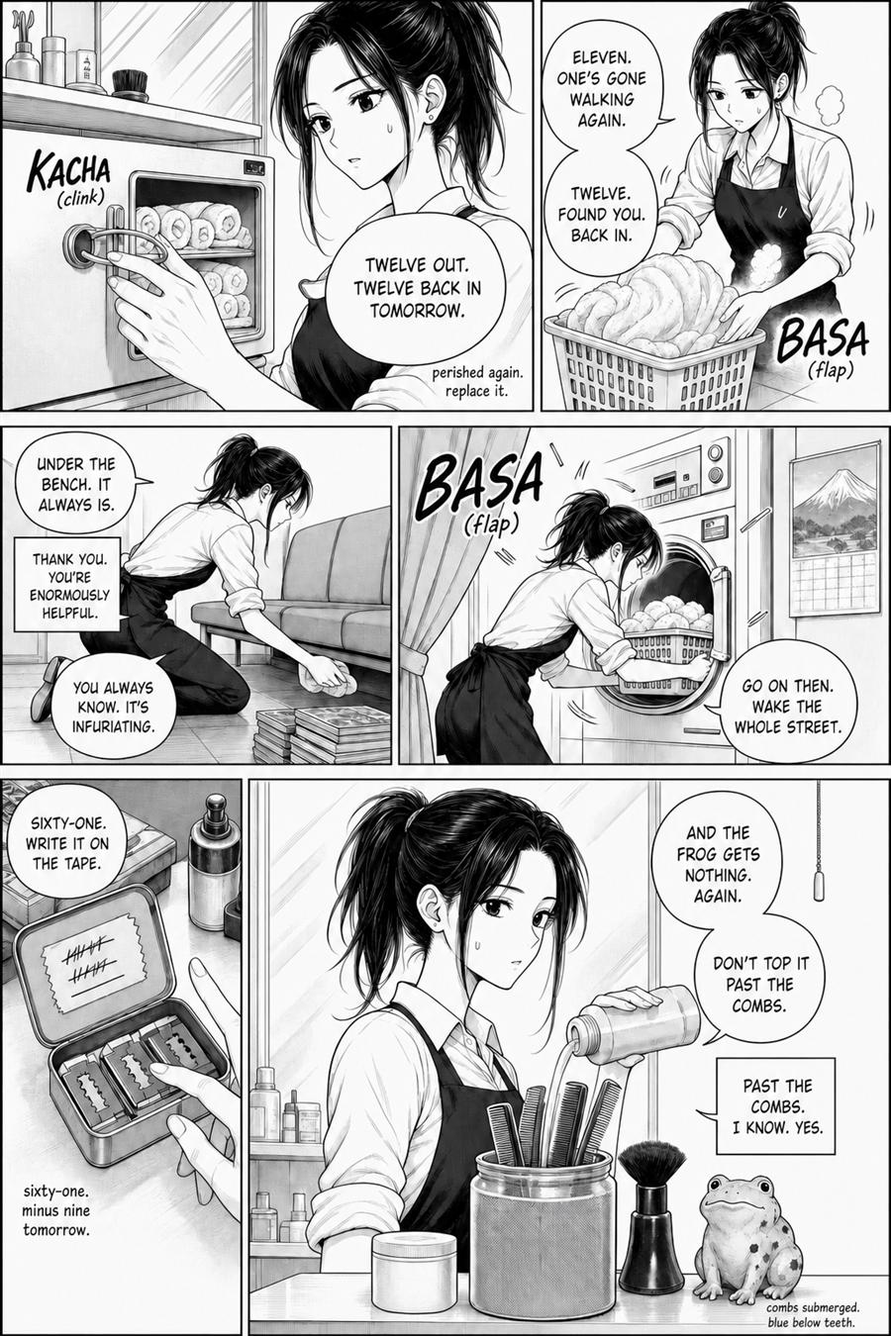
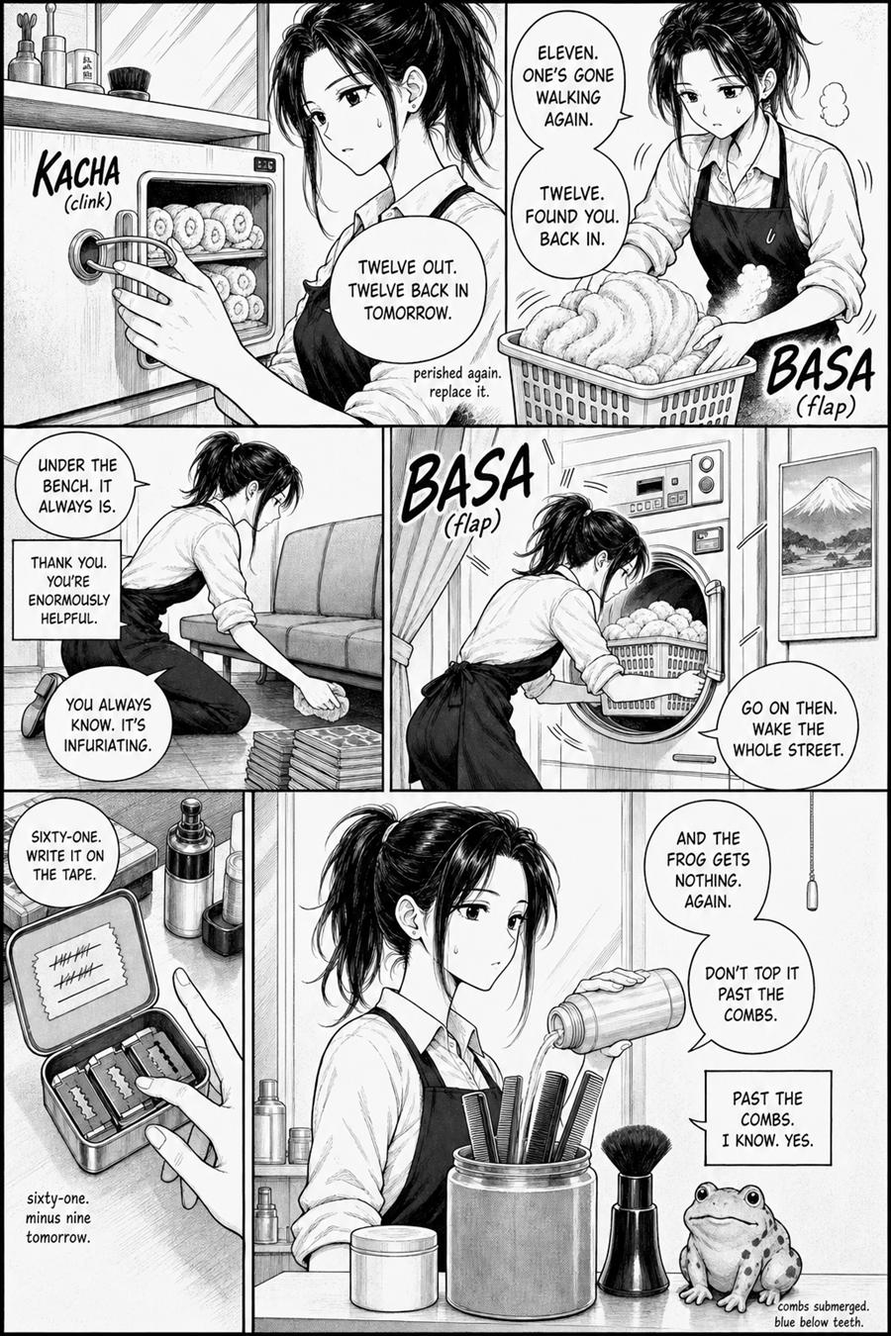
ch01: IN PENCIL (27 pages)

diff --git a/engine/art-spec.md b/engine/art-spec.md
@@ -1,131 +1,114 @@
 # ART SPEC
 
-Everything between the BEGIN/END markers is pasted VERBATIM into every single image call — pages, calibration pages, and (with the noted cover overrides) covers. Never abbreviate it, never summarize it, never "the usual spec".
+Everything between the BEGIN/END markers is pasted verbatim into every page-generation call.
+This is an editorial drawing brief, not a request for a polished illustration.
 
 <!-- BEGIN ART SPEC -->
-ART SPEC — this is a MANGA PAGE, not an illustration. Follow every section.
+ART SPEC — DRAW ONE FINISHED BLACK-AND-WHITE PRINTED MANGA PAGE.
 
-STYLE ANCHOR — the finished page must look like a SCAN OF A PRINTED MODERN HIGH-SCHOOL ROMANCE MANGA VOLUME: thin delicate ink lines, SIMPLE YOUTHFUL FACES, crisp flat screentone, lively hand lettering, and dense conversational page rhythm. The register is soft and warm, but the PAGE is busy with human reactions, short dialogue chains, mutters, SFX, cropped faces, and changing camera distance. It is clean manga cartooning, NOT a gritty realistic drama and NOT a sparse character sheet.
+PRIORITY ORDER:
+1. Story timing and readable panel flow.
+2. Every scripted word, in the correct reading order.
+3. Character identity through silhouette, clothing, and props.
+4. Expressive hand-drawn ink and screentone.
+5. Anatomical polish LAST.
 
-**THE TWO BIGGEST RISKS ARE OVER-RENDERING AND STERILE UNDER-DRAWING.** Draw faces and bodies with very few lines, but construct a complete manga page around them. A page that looks gritty, painstaking or realistic is wrong; a page made of six large figures floating in six empty white boxes is equally wrong. Specifically FORBIDDEN: crosshatching used as modelled shading; texture rendering of wood grain, every floorboard, brick, fabric weave, or concrete; stippling; feathered shading strokes; heavy line weights; detailed folds; rendered muscle or bone structure; dense architectural linework. Allowed and expected: selective room fragments, cropped props, flat dot-tone fields, speed/focus lines, black emotion fields, and graphic SFX. Simplify reality; do not erase the world.
+The page must feel drawn by a working manga artist against a deadline, not rendered by an image model trying to make every panel beautiful. A useful awkward panel is better than a polished empty one.
 
-It must NOT look like a digital painting, an anime keyframe, a 3D render, or glossy AI art. Flat print, never rendered light. Every area of the page is one of exactly three things: pure black ink, pure white paper, or a flat dot-screentone shape. If any region reads as smooth continuous grayscale, the page is wrong.
+PRINT OBJECT:
+- Portrait 1024x1536. Pure black ink, pure white paper, and visible halftone dots only.
+- No color, smooth grayscale, airbrush, gradients, digital-paint lighting, depth blur, glow, or glossy anime finish.
+- Blacks may be blunt and heavy. Screentone edges may be visibly cut. White-out gaps, broken contours, and slight ink irregularity are welcome when controlled.
+- Do not add fake aging, paper stains, scan shadows, watermarks, signatures, page numbers, or margin notes.
 
-FIGURE PROPORTIONS — THE MOST IMPORTANT RULE ON THIS PAGE. The house look is TALL, SLENDER AND LIGHT:
-- Draw teenage characters at roughly 7.5 to 8 HEADS TALL. The head is SMALL relative to the body.
-- Long slim neck. NARROW, gently sloping shoulders — never wide, never square, never blocky.
-- Long, slim arms and legs. The legs from hip to floor are slightly MORE than half of total height. Slim waist and hips, flat slim torso that tapers gently.
-- Delicate hands with long fingers. Fine wrists and ankles. Long clean jawline into a small chin.
-- This holds in EVERY panel, every pose, seated, in loose clothing, in a coat, from any angle.
-- NEVER draw a compact, square, stocky, chunky, squat or "sturdy" figure. NEVER draw a torso as a block. NEVER shorten the limbs relative to the torso. If any figure reads as stubby, short-limbed, or heavy-shouldered, THE PAGE IS WRONG and must be redrawn.
-- Height differences between characters are modest — a head at most. Nobody is a giant and nobody is a child (except characters the script explicitly says are children).
+PAGE EDITING — PANELS ARE STORY CUTS, NOT MINI POSTERS:
+- Follow the PAGE SCRIPT's exact panel count and order. A splash is one panel; every other page is genuinely divided.
+- Build an asymmetrical manga page: unequal rows, narrow reaction cuts, partial-height panels, small insets, occasional borderless inserts, and varied gutters.
+- Never use six equal rectangles, repeated full-width strips, or a tidy storyboard worksheet.
+- Only ONE panel on a normal page may look like a polished hero illustration. The others should be functional cuts: an awkward crop, the back of a head, half a face, hands, a mouth, a shoulder, a tiny figure in space, a prop, or a deliberately crude reaction.
+- Change camera distance sharply. Use extreme close-ups beside long shots. Do not repeat eye-level waist-up two-shots.
+- Crop aggressively. In at least half the panels, do not show a complete head-and-torso composition. Cut through hair, chin, elbow, shoulder, cape, or body at the panel edge.
+- Do not center every subject. Faces may press against an edge; empty space may sit on the emotionally meaningful side.
+- A character or balloon may break a border. Borders may stop behind a figure or SFX.
 
-PAGE CONSTRUCTION — DO THIS FIRST:
-- Divide the sheet into separate rectangular panels with fine solid black borders and clean white gutters between them. The exact panel count and contents come from the PAGE SCRIPT below — draw every panel it lists, in order.
-- The page is a grid of separate camera shots reading LEFT-TO-RIGHT, TOP-TO-BOTTOM. It is never one continuous illustration. (Exception: a page explicitly marked SPLASH is a single full-bleed panel — and it still carries all its speech bubbles.)
-- Vary panel sizes aggressively: one dominant panel, two or three small reaction cuts, and the rest medium. Adjacent panels must change camera angle, distance, or subject — every panel is a cut.
-- Use an ASYMMETRICAL MANGA COMPOSITION: staggered rows, narrow reaction panels, small inset panels, partial-height borders, figures and balloons crossing gutters. Do not arrange six equal boxes or six full-width horizontal strips. A neat worksheet grid is an AI failure.
-- Default page anatomy: 7 panels. 8 is common when dialogue accelerates; 6 is a quiet page; 5 is the rare floor; 9 is allowed for reaction insets. Follow the PAGE SCRIPT's exact count.
-- Gutters vary from hairline-tight in quick exchanges to wide only around an emotional pause. Uniform generous gutters make the page look like a storyboard, not manga.
+THE ANTI-AI INK LAW:
+- Contours are drawn with 2-3 perceptible line weights. Pressure changes inside a stroke. Some lines begin bluntly, taper, break, or overlap another line by a millimetre.
+- Do not use perfectly smooth vector contours, identical line weight around every object, or mathematically clean ellipses.
+- Hair is a designed black/white mass first, then a limited number of purposeful strands. Do not render every strand with equal care.
+- Clothing is allowed to bunch, kink, and simplify. Use a few decisive folds; do not simulate fabric or drape it with 3D accuracy.
+- Chrome chairs, mirrors, scissors, tills, and appliances are simplified symbols with selective blacks. No ray-traced reflections, perfect manufactured symmetry, CAD construction, or product-render highlights.
+- Background perspective may be accurate in the establishing panel, then disappear. Do not prove the room from every angle.
 
-DENSITY — the script's dialogue is the point of the page:
-- Render EVERY speech bubble, thought bubble, aside, caption, and SFX written in the PAGE SCRIPT. Never drop, merge, or shorten a bubble. A page rendered with zero bubbles is a failed page.
-- A normal page carries roughly **11-15 speech/thought balloons plus 3-5 unbubbled mutters and 2-5 drawn SFX**. Together they make **16-22 readable text beats**. The PAGE SCRIPT gives the exact count; reproduce all of it.
-- Bubbles are distributed across panels; busy panels carry 2-4 bubbles in a staggered chain. Short interruptions and replies get their own balloons instead of being merged. Bubbles overlap panel borders and sometimes each other — that is correct manga texture.
-- Before drawing, make a balloon map in reading order. Reserve roughly one quarter of the live page area for lettering. Pictures are composed around the balloons; balloons are never pasted into leftover corners.
-- This is a quiet, talky, character-first manga: the finished page reads as conversation first, pictures second.
+CHARACTER CONTINUITY — IDENTITY, NOT MODEL-SHEET RIGIDITY:
+- The CHARACTER LOCKS bind silhouette, hair value, outfit, state switch, signature props, and important story tells.
+- Listed head-count proportions describe neutral full-body shots only. Do NOT measure or enforce them in every panel.
+- Normal figures remain youthful and generally slim, but foreshortening, crouching, slouching, cropped limbs, a larger reaction head, and deliberately compressed comedy anatomy are correct manga.
+- Faces may go slightly off-model while acting. Feature spacing, jaw length, and eye size can shift between a deadpan panel, an embarrassed panel, and a chibi panel. That shift is human cartooning, not continuity failure.
+- Preserve recognizability through hair silhouette, black/gray value, clothes, and props—not through tracing the same ideal face repeatedly.
+- Do not mirror a face into perfect bilateral symmetry. Perspective makes the far eye smaller and less detailed. Hands may be simplified unless the script makes the hand the subject.
 
-FACES — people are the subject, and they are drawn SIMPLY:
-- A human face appears in nearly every panel. At most ONE panel per page may be without a person (an insert of hands, scissors, a comb, a door). Never draw a page of objects or scenery.
-- Faces are large in frame: conversation shots crop at chest or closer. Expressions do the acting, and they are SUBTLE — a lowered lash line, a small mouth, a glance away. Big loud expressions are rare and land hard.
-- **FACE CONSTRUCTION — YOUTHFUL AND MINIMAL. These characters are SEVENTEEN and must look it.** Soft rounded jaw curving into a small chin. **The NOSE is a single short stroke or a small dot — NEVER draw nostrils, a nose bridge, or a shaded nose.** The MOUTH is one small simple line. **NO lip definition, NO cheekbone lines, NO jaw shading, NO neck tendons, NO philtrum, NO under-eye bags, NO laugh lines** (age on the two elderly characters is a few fine creases ONLY, per their locks).
-- **A face is roughly: two eyes, two brows, one nose stroke, one mouth line, and the hair. That is all.** Anything beyond that is over-rendering. Adult faces get the same treatment, only longer.
+FACES — ALLOW UNATTRACTIVE MOMENTS:
+- A normal face is economical: upper lashes, iris, one nose mark, one mouth line, jaw. Do not model nostrils, lips, cheekbones, or skin volume.
+- The cast must NOT wear the same calm, symmetrical, pretty expression in every panel.
+- Use plain transitional faces, eyes looking the wrong way, half-closed lids, crooked mouths, compressed cheeks, sweat, ugly surprise, and flattened chibi reactions where the beat calls for them.
+- A reaction can drop most facial detail: dot eyes, white circle eyes, black bar eyes, one giant mouth, missing nose, or a head reduced to silhouette.
+- Reserve the most carefully drawn eyes and cleanest face for the page's emotional focal panel. If every face is equally finished, the page has failed.
+- Elderly characters must remain unmistakably old, but age comes from a few decisive lid, mouth, hand, neck, and hairline marks—not realistic skin rendering.
 
-WHITE SPACE — CONTROLLED, NOT EMPTY:
-- Roughly **35-50%** of the page may read as white paper. White is an active contrast field around faces and lettering, not an excuse to omit setting, reactions, or tone.
-- Give **2-4 panels per normal page** a purposeful background treatment: one clear environment panel; one or two cropped room fragments or props; and/or one graphic emotion field made of speed lines, focus lines, flat black, or visible dot screentone.
-- Suggest the shop with selective recurring anchors — mirror edge, chair chrome, towel cabinet, counter, stair rail, window, floor drift — rather than redrawing the entire room. Do not render every floorboard, tile, brick, mullion, or surface grain.
-- No more than TWO consecutive panels may float on untouched white. Alternate white face shots with context, prop inserts, tone fields, or graphic reaction panels.
-- NEVER achieve breathing room with fewer panels, fewer bubbles, or empty panels. Breathing room comes from simple linework and controlled contrast inside a fully constructed page.
+BLACK, WHITE, SCREENTONE — VARY PAGE TO PAGE:
+- Use visible dot screentone, flat black, white, speed lines, focus lines, and dry graphic marks as compositional values.
+- Do not target the same white percentage on every page. One page may be bright; the next may carry a dark tone field. The chapter needs contrast.
+- Tone may sit behind a face as emotion rather than physical lighting. Black fields and radiating lines are legitimate manga space.
+- Establish a location once with enough concrete detail to orient the reader. Later panels use only cropped anchors: mirror edge, chair arm, stair rail, towel cabinet, window, floor hair, counter.
+- Do not repeat a complete barbershop interior. Do not render every tile, floor seam, shelf item, ceiling panel, or reflection.
+- Also avoid the opposite failure: characters floating in a featureless white showroom for an entire page. Use room fragments, tone, blacks, or graphic effects where the cut needs grounding.
+- Chapter 1 page 23 is the house QA comparator for density, emotional register, uneven finish, and balloon variety. Do not attach it—or any prior story page—as a visual reference for a different page: scene-content leakage is a redraw. Compare editorially after generation instead.
 
-LINE:
-- THIN, clean, even-weight black ink line — light, delicate and confident. Slightly thicker on figure outlines only. No sketchiness, no crosshatch rendering, no painterly shading, no heavy brush weight, no tapered "drybrush" strokes.
-- **CLOTHING gets the MINIMUM fold lines that read — two or three per garment, at the elbow, the waist and the hem. Never render drapery. A shirt is an outline and three lines.**
-- FLATNESS LAW: faces, skin, hair, clothes and objects are FLAT — outline plus flat fill plus at most one screentone shadow shape. No gradient shading on skin, no soft light on hair, no rendered fabric folds, no ambient occlusion, no depth-of-field blur, no photographic lighting of any kind. Simple beats detailed everywhere.
+DIALOGUE DENSITY — LETTERING IS PART OF THE DRAWING:
+- Render EVERY scripted speech balloon, thought balloon, aside, caption, and SFX. Never merge, paraphrase, reorder, or omit text.
+- Obey the COUNT LOCK exactly. Plan the balloon map before drawing the figures.
+- Compose heads, hands, and bodies around the balloon path. Do not paste text into leftover corners after drawing.
+- Busy panels may carry 2-4 short balloons in a staggered chain. Balloons may overlap a shoulder, background, border, or each other.
+- Keep all text large enough to read at normal phone width. Use short stacked lines.
 
-EYES — the one feature that carries the face, so they are LARGE and CLEAN:
-- Large, gently rounded eyes, noticeably bigger than realistic proportion. A fine dark upper lash line thickening slightly at the outer corner, two or three delicate lashes, a crisp white highlight, a soft lower lid. Irises are a clean flat tone or a few fine vertical striations — never airbrushed, never heavily detailed.
-- Eyebrows are thin simple arcs. Eyelids get one line at most.
-- Blush is 2-4 short diagonal hatch strokes on the cheek. A comic sweat drop beside the temple is allowed. Emotion marks are used SPARINGLY — this series is quiet.
+HAND-DRAWN BALLOONS AND LETTERING:
+- Balloon outlines must look inked by hand: subtly uneven curves, non-identical corners, slight wobble, and natural asymmetry. Never use perfect vector circles, capsules, or software-default rounded rectangles.
+- Normal speech: irregular oval. Formal/deadpan speech: hand-drawn squared balloon. Shout: violent spiky burst with heavy larger letters. Thought: irregular scalloped cloud. Mutter: bare small text or a broken whisper outline. Interruption: torn/open edge. Weak voice: thin wavering outline.
+- Tails are individually drawn and vary in length, angle, width, and curve. Do not reuse the same triangular tail.
+- Text should resemble confident hand lettering, not a clean installed comic font: small baseline shifts, varying width, controlled changes of weight, and occasional squeezed letters. It must remain legible.
+- Bold only the stressed words. Shouts change both balloon shape and letter scale.
+- A page of identical ovals, identical rectangles, or identical text size is a redraw.
 
-HAIR:
-- Hair reads as a clear SILHOUETTE with FINE STRAND LINES inside it: flat black fill, flat screentone gray, or left white — with a simple clean white shine band. Individual strands are drawn with fine tapered lines at the edges so hair looks soft, not solid. Each character's hair silhouette must match their CHARACTER LOCK exactly, every panel, every page.
+SFX AND REACTION GRAPHICS:
+- SFX are hand-lettered romaji integrated into the art, with the small English translation in parentheses. Never print the labels `SFX:`, `CAPTION:`, `PANEL`, speaker names, quotation marks, or any script markup.
+- Give sounds different physical behavior: scissors may sit close to the blade; a bell can hang down the panel; a crash can cross a gutter; a breath can nearly disappear.
+- Use manga punctuation when earned: `?!`, `!!`, sweat drop, anger vein, blush hatching, motion ticks, speed lines, focus lines, black shock field, tiny chibi insert.
+- Do not force the same reaction device or giant SFX onto every page. Repetition by checklist feels generated.
 
-TONE — PRINTED MANGA RHYTHM, NEVER SMOOTH GRAY:
-- Halftone dot screentone is used for hair values, uniform fabric, **2-4 flat background/effect shapes**, and the occasional cropped room shadow. Aim for visible print dots across roughly 15-30% of a normal page.
-- A background may be a single flat tone field, a black field, or a sparse speed/focus-line field when it carries emotion. Never model a whole room with gradients or textured gray.
-- Blacks are FLAT solid black. No gray airbrush, no soft digital gradients, no 3D-render shading. Mid-tones are visible DOTS, never smooth gray.
+SIGNAGE AND EXACT TEXT:
+- Any sign, poster, shopfront, notice, packet, book, phone screen, clock, or printed page may carry ONLY wording explicitly supplied by the PAGE SCRIPT.
+- If wording is not supplied, turn it away, crop it, reduce it to illegible marks, or cover it. Never invent names or logos.
+- The cram-school poster is printed matter in a coarser dot screen, cropped/occluded, never a clean extra character portrait, and never lettered.
 
-CHIBI:
-- Panels tagged [CHIBI] in the script draw the characters as tiny simplified versions: oversized round head, dot or line eyes, no nose, simplified body, simplified hair silhouette that still matches their lock. Chibi panels land mid-conversation as small comedy beats and keep their bubbles. (Chibi is the ONE exemption from the proportions law.)
+FINAL HUMAN-PAGE AUDIT — REDRAW IF ANY ANSWER IS YES:
+- Do most panels look like polished standalone illustrations?
+- Are faces uniformly symmetrical, attractive, calm, and equally finished?
+- Are bodies posed like mannequins facing the camera?
+- Are balloons perfect software shapes with one repeated font treatment?
+- Is the room rendered like a consistent 3D set from every angle?
+- Are chrome, hair, eyes, or cloth glossy and computationally smooth?
+- Is every line the same weight and every contour unbroken?
+- Are all gutters, panels, camera distances, or figure scales regular?
+- Does the page look cleaner and more consistent than a weekly printed manga page? If so, roughen the editorial drawing, not by adding noise, but by making bolder choices and leaving unimportant things unfinished.
 
-LETTERING — **BUBBLE SHAPE AND TEXT SIZE CARRY THE EMOTION. THIS IS AS IMPORTANT AS THE DRAWING.**
-
-**THE ENFORCEMENT RULE: a page where every bubble is the same shape, the same size, and the same weight is a FAILED PAGE.** Real manga lettering is loud in places and almost invisible in others, and the reader hears volume from the shape alone before reading a word. Vary it on every single page.
-
-Every normal page must show **at least three distinct lettering treatments** from the vocabulary below. Every conversation page must include at least one staggered **two- or three-balloon chain** whose shapes and sizes change with the speaker's rhythm. A quiet page can use oval + rectangle + bare mutter; it does not need a false shout.
-
-The vocabulary — pick the form from the FEELING, not from habit:
-- **Normal speech** → clean oval or rounded bubble, thin outline, medium text.
-- **SHOUTING / urgency / alarm** → **SPIKY BURST bubble** with jagged points, and the text inside is **MUCH BIGGER AND BOLDER** — two or three times the size of calm dialogue, often stacked in short thick lines. A shout must be legible as a shout with the page held at arm's length.
-- **Flat, formal, deadpan, or stating a fact** → a **RECTANGULAR / squared-off bubble** with corners. (This is Tōma's public register bubble — use it.)
-- **Muttering, half-heard, embarrassed, trailing off** → **NO OUTLINE AT ALL**: small text floating bare beside the head; or a **small broken/dashed outline**. Tiny text. This is the series' most-used quiet form.
-- **Thoughts** → cloud-scalloped edge, softer text.
-- **Interrupted or cut off** → a bubble with one edge left open or ragged.
-- **Whisper / weak voice** → thin wobbly outline, small light text.
-- **TAILS vary**: a long whipping tail thrown across the panel for a shout from off-panel; a tiny nub for a quiet line; no tail at all when the speaker is obvious.
-- **Bold individual words** inside a bubble for stress. Not every word — one or two.
-- Bubbles **overlap panel borders and each other**; a bubble may sit half outside its panel. That is correct manga texture, not a mistake.
-- Balloons may crop a shoulder, cover background detail, or bridge two adjacent reaction shots. They help CREATE the layout and reading path.
-- Text is horizontal UPPERCASE English, centred, broken into short stacked lines of 1-4 words; hyphenate rather than shrink.
-- Captions: small rectangular boxes, upper corner of a panel, uppercase.
-
-EXPRESSION, REACTION AND CARTOONING — the page must have COMIC LIFE in it:
-- Use **1-3 purposeful manga grammar devices per normal page**: a drawn **"?!"** or **"!?"** graphic; sweat drop; popped anger vein; blush hatching; breath puff; hand-motion ticks; speed/focus lines; simplified reaction face. Do not apply the same device to every page.
-- **REACTION FACES**: when a character is startled, mortified, exasperated or caught out, drop that panel to a **SIMPLIFIED CARTOON FACE** — dot or line eyes, a huge open mouth, simplified hair shape — even inside an otherwise quiet scene. Snapping between a delicate face and a cartoon face is the register of this genre.
-- **SPEED LINES and focus lines** behind sudden movement or a shock beat. A dark toned panel with radiating focus lines is legal for one dramatic beat.
-- **Characters may break the panel border** — a hand, a shoulder, a lock of hair, a scissor blade crossing the gutter into the next panel.
-- These devices are punctuation. Let calm panels stay calm, then make the change of register obvious.
-
-SFX — DRAWN, NOT TYPED:
-- Sound effects are **hand-lettered romaji drawn INTO the artwork**, with a tiny English translation in parentheses tucked under or beside them — e.g. JOKI (snip), GARA (rattle), KACHA (clink).
-- **Vary them wildly in size and treatment.** On most normal pages, one SFX is a major graphic element that overlaps a figure, border, or gutter; on intimate pages all SFX may stay small. Others are tucked into the drawing. Rough scratchy letterforms for harsh sounds; soft rounded letterforms for gentle ones; long trailing letters for continuous sounds.
-- Small domestic sounds are this series' staple, but they still get real hand-lettered presence — never a neat typeset label sitting politely in a corner.
-- **NEVER print the script's markup.** The letters "SFX", a colon, and quotation marks must NEVER appear on the page. The script line `- SFX: SHAKI (snip)` is lettered on the page as **SHAKI (snip)** and nothing else. The same applies to every other script prefix — CAPTION, PANEL, and character-name labels are instructions to you, never text to draw.
-
-SIGNAGE LAW — NEVER INVENT LETTERING:
-- Any sign, poster, shopfront, notice, packet, book, phone screen or printed page may ONLY carry text the PAGE SCRIPT explicitly supplies. If the script gives no wording, draw the object with its lettering illegible — turned away, blurred, edge-on, or cropped — never a name you made up.
-
-BANNED — never do any of these:
-- Color. (Black, white, and screentone gray only.)
-- STUBBY, squat, stocky, wide-shouldered or short-limbed figures. See FIGURE PROPORTIONS.
-- **OVER-RENDERING — the primary failure mode of this series.** No crosshatching. No stippling. No texture on wood, floorboards, brick, tile, concrete, fabric weave, or hair beyond simple strand lines. No rendered drapery or heavy fold work. No detailed noses, nostrils, lips, cheekbones, or jaw shading. No gritty or photorealistic "seinen drama" finish. If the page looks laborious, it is wrong.
-- **STERILE UNDER-DRAWING.** Six large empty white boxes, figures floating without room anchors, or more than two consecutive untouched-white panels. This is as serious a defect as over-rendering.
-- **UNIFORM LETTERING.** Every bubble the same oval, the same size, the same weight — no shouts, no unbubbled mutters, no size contrast. This is a defect and the page must be redrawn. See LETTERING.
-- **DEAD PAGES.** No emotion marks, no reaction faces, no varied SFX, nothing crossing a panel border. The page must have comic life in it.
-- Photorealism, painterly rendering, soft airbrushed grayscale, 3D-render look, AI-gloss.
-- Digital-painting or anime-keyframe rendering: gradient-shaded skin or hair, glossy highlights, rendered lighting, smooth gray shading anywhere.
-- Heavy, dark, tone-saturated pages. This series is light; white remains the largest single value.
-- Fully rendered environments in every panel. Use selective environment fragments and graphic fields instead.
-- A single-illustration page when the script lists multiple panels.
-- A page, or more than one panel, with no people in it.
-- A page with zero speech bubbles, or fewer bubbles than the script lists.
-- Japanese/CJK glyphs anywhere — all lettering is uppercase English / romaji.
-- Watermarks, signatures, page numbers, margin text, logos.
-- Characters, costumes, hairstyles, or logos copied from any existing manga/anime.
-- Panel compositions, poses, dialogue, lettering, or character designs traced or copied from a reference page. Learn only the general manga grammar: density, interruption, scale contrast, and emotional lettering.
+BANNED:
+- Color; gradients; airbrush; painterly grayscale; anime screenshot finish; 3D render; photorealism; AI gloss.
+- Vector-clean outlines, perfect manufactured geometry, perfectly mirrored faces, identical eyes, repeated beauty-shot framing.
+- Full environment detail in every panel; CAD-like barbershop chairs; complete accurate mirror reflections in every shot.
+- Tracing or copying any existing manga panel, character, pose, composition, lettering, logo, or artist's distinctive design. Use only general printed-manga grammar.
+- Japanese/CJK glyphs; watermarks; signatures; page numbers; invented signage; missing scripted text.
 <!-- END ART SPEC -->
 
-## Cover override (append after the spec for cover calls only)
+## Cover override
 
-COVER OVERRIDE: This call is a chapter COVER, not a story page. One single full-bleed composition, portrait: a single BARBER'S CHAIR — a real barbershop chair with a padded back, chrome arms and a footrest — center-frame, drawn full height and slightly angled. The two leads are positioned relative to that chair exactly as the COVER NOTES direct (default: he is seated in it with a white cutting cape across his shoulders, she stands behind it with one hand on the chair back and comb-and-scissors in the other, both facing the reader as if into the shop mirror). THE DISTANCE AND CONTACT between the two figures is the cover's story — set it precisely from the COVER NOTES. Background: pure white, or a very sparse tone accent; no drawn shop interior unless the COVER NOTES ask for one. Roughly half the composition is white space. Hand-lettered series title in clean soft lettering across the top exactly as given; "CHAPTER N" and the chapter title in smaller lettering near the bottom. No panels, no speech bubbles. All other sections of the spec (FIGURE PROPORTIONS, line, eyes, hair, tone, banned) still apply — the figures are tall and slender.
+COVER OVERRIDE: This call is a chapter COVER, not a story page. Draw one full-bleed portrait composition with no panels or speech balloons. A single real barber chair sits centre-frame, full height and slightly angled. Position the two leads relative to it exactly as the COVER NOTES direct. Their distance and contact are the story. Keep the background mostly white with at most one sparse tone or ink accent. Hand-letter the series title exactly as supplied at the top, and `CHAPTER N` plus the chapter title near the bottom. Preserve the ANTI-AI INK LAW: varied line weight, simplified chrome, no glossy product rendering, no mannequin symmetry, no copied design.

diff --git a/engine/locks.md b/engine/locks.md
@@ -1,11 +1,11 @@
 WORLD RENDER RULES (apply on every page):
-- FIGURES ARE TALL AND SLENDER, ALWAYS. Every character in this series is drawn long: small head, long slim neck, NARROW GENTLY SLOPING shoulders, long arms and legs, slim flat tapering torso, delicate hands with long fingers. Head-counts are given per character below and they are binding. NEVER draw anyone compact, square-shouldered, stocky, squat, chunky, low-centred, or short-limbed — not the teenagers, not the adults, not the elderly. If a figure reads as stubby, THE PAGE IS WRONG.
+- NEUTRAL FULL-BODY BASELINE: the cast is generally tall and light, with narrow shoulders and long limbs. Character head-counts below apply ONLY to a neutral standing model-sheet view. They are identity guidance, not panel-by-panel measurements. Manga acting may compress, stretch, crop, foreshorten, crouch, slouch, enlarge a reaction head, or simplify a body. Do not redesign a character as broadly stocky in an ordinary standing shot, but never sacrifice a lively panel to perfect proportions.
 - SCHOOL UNIFORM (KŌYŌ HIGH): single-breasted notch-lapel blazer, ONE button fastened. Blazer/trousers/skirt = flat 30% dot screentone, never solid black. Shirt/blouse = PURE WHITE PAPER, zero tone. Boys' necktie and girls' ribbon = FLAT SOLID BLACK (the only black accent above the waist). Skirt is a plain box pleat with fine white pleat lines; trousers straight, no cuff. Indoor shoes white with a toe band: SOLID BLACK = second year, untoned white = first year. NO crest, badge, or lettering anywhere on the uniform — the school's only insignia is a FINE WHITE PIPING LINE along the outer edge of each blazer cuff; draw it. Summer: blazer off, white short-sleeve shirt, tie/ribbon still worn.
 - THE BARBERSHOP (BARBER KOMORI) — rendering canon: a mirror wall behind chair one; TWO chrome-and-leather barber chairs (chair one working, chair two the grandmother's and never occupied — keep it in frame, empty, perfect); a shampoo basin; a hot-towel cabinet; a wall of framed licences with ONE EMPTY FRAME at the end of the row; a pencil appointment book; a till. The CUTTING CAPE is a large PURE WHITE shape with zero tone — the biggest white area on any shop page. CUT HAIR ON THE FLOOR is fine scattered ink flecks, never clumps. Outside: a striped pole whose casing has a fine crack, turning at a slightly wrong speed.
-- THE MIRROR IS A STORY DEVICE: the mirror is how these two look at each other without looking at each other. A reflection is drawn as a clean second image with NO extra tone or blur — never a "shiny" or distorted mirror.
+- THE MIRROR IS A STORY DEVICE: the mirror is how these two look at each other without looking directly. Reflections are selectively drawn and often cropped; use fewer lines than the direct figure, omit unimportant room detail, and never render a complete ray-traced duplicate of the shop.
 - THE POSTER (Naruse Tōma's cram-school portrait, on the utility pole outside the shop window and at four station exits): a large printed FACE rendered in a COARSER DOT SCREEN than the drawn world, so it reads as printed matter and not as a person. It is NEVER shown clean or whole — always cropped by the panel edge, angled, rain-streaked, or occluded by something in front of it. It carries NO legible text. It weathers steadily across the series.
 - SIGNAGE LAW — NEVER INVENT LETTERING. Any sign, poster, shopfront, notice, book, packet or screen may ONLY carry text the PAGE SCRIPT explicitly supplies. If the script gives no wording, draw the lettering illegible — turned away, blurred, edge-on, cropped. Never invent a name.
-- The page is LIGHT: fine thin linework, sparing screentone, roughly half of every page pure white paper.
+- Page values change with the beat: the book is generally light, but one page may be mostly white and the next may use heavy hair blacks, a dark emotion field, or more screentone. Do not enforce one white percentage across the chapter.
 
 CHARACTER LOCKS:
 
@@ -28,3 +28,5 @@ MOMOSE RURIKA (16, first year, art club, the girl in love with the poster) — 1
 
 NARUSE AKIE (49, Tōma's mother, dispensing pharmacist) — 165cm, 7.5 HEADS, narrow shouldered, upright, precise; HAIR 20% tone in a neat short bob; EYES one highlight, warm and level; neat blouse and cardigan, 30% tone. Never stocky.
 NARUSE TSUTOMU (51, Tōma's father, checking draughtsman) — 178cm, 7.75 HEADS, long and narrow with a slight stoop; HAIR 30% tone, receding at the temples; small oval glasses drawn as thin outlines with the eyes visible; shirt and knit vest. Never bulky.
+
+FINAL RENDER OVERRIDE — THIS PARAGRAPH HAS THE LAST WORD OVER EVERY LOCK ABOVE: preserve each character's hair silhouette/value, outfit, state switch, age, signature prop, nape state, and readable close-up eye tell. All numeric head counts, exact tie sizes, exact highlight counts, and phrases such as `always`, `binding`, `every panel`, or `never compact` describe the neutral identity model only. They MUST NOT produce mannequin anatomy or traced facial consistency. In story panels, freely crop, foreshorten, compress, stretch, slouch, simplify hands, omit tiny eye details at distance, and deform faces/bodies for reaction timing. Character recognition comes from silhouette and costume, not repeated perfect geometry.
